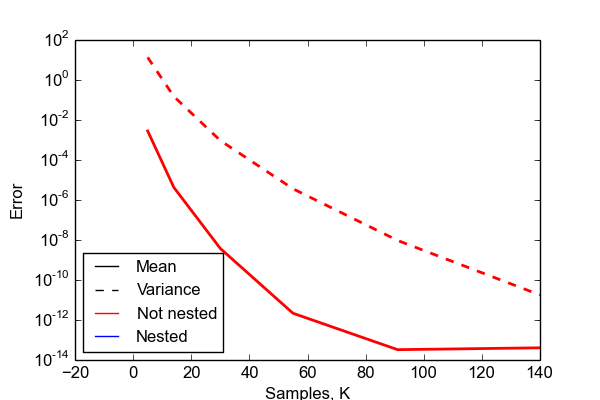
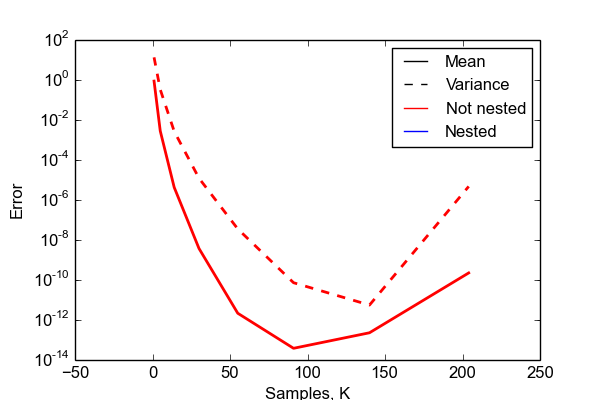
fixed nested vs not nested

diff --git a/figures/convergence_L.py b/figures/convergence_L.py
@@ -29,19 +29,19 @@ pl.plot(-1,1, "k--")
 pl.plot(-1,1, "r")
 pl.plot(-1,1, "b")
 #pl.plot(-1,1, "g")
-pl.legend(["Mean","Variance", "Not nested","Nested","$L=M+1$"],loc=3,prop={"size" :12})
+pl.legend(["Mean","Variance", "Not nested","Nested","$L=M+1$"],loc=1,prop={"size" :12})
 #pl.ylim([10**-14,10**2])
 
 
 
-N = 5
+N = 7
 
 errorCP = []
 varCP = []
 K = []
 for n in xrange(0,N+1):
     P = cp.orth_ttr(n, dist)
-    nodes, weights = cp.generate_quadrature(n+1, dist, rule="E",sparse=True,growth=False)
+    nodes, weights = cp.generate_quadrature(n, dist, rule="E",sparse=True,growth=False)
     K.append(len(nodes[0]))
     i1,i2 = np.mgrid[:len(weights), :Nt]
     solves = u(T[i2],nodes[0][i1],nodes[1][i1])
@@ -134,13 +134,13 @@ pl.savefig("convergence_2D_L.png")
 #pl.rc("figure", figsize=[6,4])
 
 
-N = 4
+N = 7
 errorCP = []
 varCP = []
 K = []
 for n in xrange(0,N+1):
     P = cp.orth_ttr(n, dist)
-    nodes, weights = cp.generate_quadrature(n+1, dist, rule="E",sparse=True,growth=True)
+    nodes, weights = cp.generate_quadrature(n, dist, rule="C",sparse=True,growth=True)
     K.append(len(nodes[0]))
     i1,i2 = np.mgrid[:len(weights), :Nt]
     solves = u(T[i2],nodes[0][i1],nodes[1][i1])
@@ -195,8 +195,8 @@ pl.plot(K, varCP,"g--",linewidth=2)
 pl.xlabel("Samples, K")
 pl.ylabel("Error")
 pl.yscale('log')
-pl.xlim([0,150])
-pl.ylim([10**-16,2*10**2])
+pl.xlim([0,100])
+#pl.ylim([10**-16,2*10**2])
 
 #Zpl.title("Error in expectation value and variance, sparse ")
 #pl.legend(["E, $L=M-1$","Var, $L=M-1$","E, $L=M$","Var, $L=M$"],loc=2)
